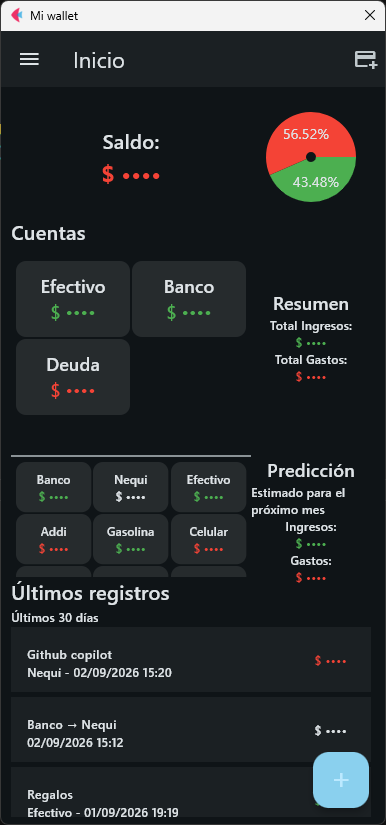
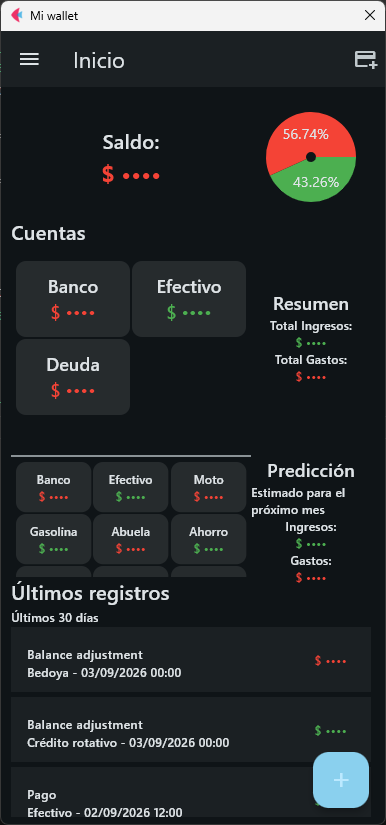
README update

diff --git a/README.md b/README.md
@@ -1,58 +1,98 @@
 # Mi Wallet
 
-Aplicación personal de finanzas hecha con Python y Flet para controlar cuentas, movimientos, transferencias y balances desde una interfaz visual. Funciona con persistencia local, sin depender de un backend externo ni de una base de datos remota.
+Aplicación personal de finanzas desarrollada con **Python y Flet** para gestionar cuentas, movimientos, transferencias y balances desde una interfaz visual.
 
-Su objetivo es concentrar en una sola cartera la información financiera del usuario y ofrecer una consulta rápida del estado actual, el historial y predicciones.
+La aplicación funciona con **persistencia local**, sin depender de un backend externo ni de una base de datos remota.
+
+Su objetivo es concentrar en una sola cartera la información financiera del usuario y ofrecer una consulta rápida del estado actual, el historial y diferentes indicadores para facilitar la gestión cotidiana.
 
 ## Vista previa
 
 Las capturas reales de la aplicación se encuentran en la carpeta [`imagenes/`](imagenes/).
 
-| Inicio | Movimientos | Transferencias |
+| Inicio | Registros | Transferencias |
 | --- | --- | --- |
 | ![Pantalla principal](imagenes/Pantalla%20principal.png) | ![Resumen de movimientos](imagenes/Resumen%20de%20movimientos.png) | ![Transferencias](imagenes/Transferencias.png) |
+
+| Nuevo gasto | Nueva transferencia | Nueva cuenta |
+| --- | --- | --- |
+| ![Nuevo gasto](imagenes/Nuevo%20gasto.png) | ![Nueva transferencia](imagenes/Nueva%20transferencia.png) | ![Nueva cuenta](imagenes/Nueva%20cuenta.png) |
+
+| Configuración |
+| --- |
+| ![Configuración](imagenes/Configuracion.png) |
 
 ## Funcionalidades
 
 ### Cuentas y balance
 
 - Crear, editar y eliminar cuentas.
-- Clasificar cuentas por tipo, como efectivo, banco, deudas, inversiones o ahorros.
+- Clasificar cuentas mediante tipos configurables, como efectivo, banco, deudas, inversiones o ahorros.
 - Crear nuevos tipos de cuenta.
 - Consultar el saldo individual y el balance global de la wallet.
+- Generar automáticamente movimientos de ajuste cuando corresponde.
 
 ### Movimientos
 
-Cada ingreso o gasto incluye cuenta, tipo, categoría, descripción, importe y fecha. Los registros se pueden consultar aplicando filtros por cuenta, tipo, categoría y rango de fechas.
+Cada ingreso o gasto incluye información como cuenta, tipo, categoría, descripción, importe y fecha.
 
-La `Wallet` es la responsable de conservar y coordinar el historial de movimientos; las cuentas ya no almacenan el historial por separado.
+Los registros pueden consultarse mediante filtros por:
+
+- cuenta;
+- tipo;
+- categoría;
+- rango de fechas.
+
+Los movimientos se consultan por periodos para evitar cargar innecesariamente todo el historial al utilizar la aplicación.
+
+La vista de inicio muestra únicamente información reciente, mientras que la sección de registros permite consultar periodos más amplios.
+
+La `Wallet` conserva y coordina el historial general de movimientos, evitando que cada cuenta mantenga una copia independiente de sus registros.
 
 ### Transferencias
 
-Una transferencia relaciona una cuenta de origen con una cuenta de destino y mantiene la trazabilidad mediante un identificador compartido. En la interfaz se muestra como **una sola tarjeta de transferencia**, aunque afecte al saldo de dos cuentas, para evitar presentarla como dos movimientos independientes.
+Una transferencia relaciona una cuenta de origen con una cuenta de destino mediante un identificador compartido.
+
+En la interfaz se presenta como **una única tarjeta de transferencia**, aunque internamente afecte al saldo de dos cuentas.
+
+Las transferencias también pueden consultarse desde la sección de registros mediante sus filtros correspondientes.
+
+### Predicciones y análisis
+
+La aplicación incorpora predicciones basadas en los datos registrados para ofrecer una referencia sobre la evolución financiera esperada.
+
+Actualmente esta parte se encuentra en desarrollo y será ampliada con herramientas de análisis más detalladas.
+
+### Configuración
+
+La aplicación cuenta con una sección de configuración destinada a personalizar distintos aspectos de la wallet y mejorar la experiencia de uso.
+
+Entre las opciones actuales se incluyen configuraciones relacionadas con la privacidad, como la posibilidad de ocultar los saldos, además de preferencias sobre gráficos, categorías y tipos de cuenta.
 
 ### Importación y exportación
 
-La aplicación permite importar y exportar información en CSV. Actualmente, la importación de archivos de Money Manager requiere este formato fijo de columnas, separadas por `;`:
+La aplicación permite importar y exportar información mediante CSV.
+
+Actualmente, la importación de archivos de **Money Manager** requiere este formato fijo de columnas, separadas por `;`:
 
 ```text
 account;category;currency;amount;ref_currency_amount;type;payment_type;payment_type_local;note;date;gps_latitude;gps_longitude;gps_accuracy_in_meters;warranty_in_month;transfer;payee;labels;envelope_id;custom_category
 ```
 
-También permite exportar el estado actual de la wallet para crear copias de respaldo o trabajar con los datos fuera de la aplicación.
+La exportación permite crear copias de respaldo de la información actual o trabajar con los datos fuera de la aplicación.
 
-### Predicciones
-
-La app ofrece una vista previa de predicciones basada en los datos registrados para ayudar a anticipar la evolución financiera.
+La persistencia local permite conservar los datos incluso después de actualizar o reinstalar la aplicación en Android, siempre que el almacenamiento de datos de la aplicación se conserve en el dispositivo.
 
 ## Flujo principal
 
 1. Crear o seleccionar las cuentas financieras.
 2. Registrar ingresos, gastos o transferencias.
-3. Consultar balances, movimientos y filtros.
-4. Revisar las predicciones disponibles.
-5. Guardar los cambios automáticamente en el almacenamiento local.
-6. Importar o exportar datos cuando sea necesario.
+3. Consultar balances y registros mediante filtros.
+4. Revisar la información disponible en el inicio.
+5. Revisar las predicciones disponibles.
+6. Personalizar la aplicación desde Configuración.
+7. Guardar automáticamente los cambios en el almacenamiento local.
+8. Importar o exportar información cuando sea necesario.
 
 ## Arquitectura
 
@@ -76,9 +116,11 @@ project/
 
 - **Modelos:** representan `Account`, `Movement` y `Wallet`.
 - **Servicios:** coordinan cuentas, movimientos, transferencias, balances y predicciones.
-- **Persistencia:** guarda los datos localmente en JSON y gestiona el intercambio mediante CSV.
-- **Interfaz:** Flet organiza la navegación, las ventanas, los formularios y las vistas de consulta.
-- **Pruebas:** cubren el dominio, transferencias, navegación, importación y componentes de la interfaz.
+- **Persistencia:** administra el almacenamiento local y el intercambio de información mediante CSV.
+- **Interfaz:** Flet organiza la navegación, los formularios, los componentes visuales y las vistas de consulta.
+- **Pruebas:** cubren distintas partes del dominio, transferencias, navegación, importación y componentes de la interfaz.
+
+La interfaz actual fue reconstruida para priorizar la experiencia de uso y reducir la dependencia de una visualización permanente del historial de movimientos.
 
 ## Tecnologías
 
@@ -88,12 +130,95 @@ project/
 - CSV para importación y exportación
 - Pytest para pruebas automatizadas
 
-## APK para Android
+## Descargar
 
-En la carpeta download.zip encontraras la APK para descargar directamente en android y utilizar.
+La aplicación puede descargarse desde el archivo [`download.zip`](download.zip), disponible en este mismo repositorio.
 
-La versión de escritorio sigue pendiente de un ajuste visual específico; actualmente la interfaz está orientada principalmente a la experiencia móvil Android.
+El archivo contiene la versión preparada para utilizar la aplicación en **Android**.
+
+Actualmente la versión pública está orientada principalmente a móviles Android. La versión de escritorio todavía requiere algunos ajustes visuales.
+
+## Compatibilidad
+
+La aplicación está diseñada principalmente para **Android**, aunque el proyecto utiliza una base de código multiplataforma mediante Flet.
+
+Durante su desarrollo se realizaron pruebas específicas para resolver diferencias entre escritorio y Android, especialmente en interacción, selección de archivos y persistencia de datos.
 
 ## Estado del proyecto
 
-Mi Wallet ya cuenta con el flujo central de gestión financiera, persistencia local, transferencias, filtros, importación/exportación y pruebas automatizadas. Las siguientes mejoras serán implementar la creación de nuevos tipos de cuenta específicos como deudas o inversiones con cálculos de intereses automáticos y análisis financieros mas detallados.
+Mi Wallet cuenta actualmente con el flujo principal de gestión financiera:
+
+- cuentas;
+- movimientos;
+- transferencias;
+- balances;
+- filtros por periodo;
+- predicciones;
+- configuración;
+- persistencia local;
+- importación y exportación;
+- pruebas automatizadas.
+
+El proyecto continúa evolucionando a partir de pruebas de uso real.
+
+Las siguientes mejoras estarán enfocadas principalmente en ampliar el análisis financiero, incorporar funcionalidades específicas para deudas e inversiones y añadir cálculos automáticos relacionados con intereses y objetivos de ahorro.
+
+## Roadmap
+
+### Fase 1 — Wallet funcional
+
+✅ **Finalizada**
+
+Implementación del flujo principal de cuentas, movimientos, transferencias, balances, persistencia, importación/exportación y pruebas.
+
+### Fase 2 — Adaptación Android y compatibilidad
+
+✅ **Finalizada**
+
+Adaptación de la aplicación para Android y resolución de problemas específicos de plataforma.
+
+### Fase 3 — Pruebas de uso real
+
+✅ **Finalizada**
+
+El uso cotidiano permitió detectar problemas de navegación, rendimiento y comodidad, provocando cambios importantes en el diseño de la aplicación.
+
+### Fase 4 — Reorganización visual, UX y estética
+
+✅ **Finalizada**
+
+Se reconstruyó prácticamente toda la interfaz y el frontend, estableciendo una nueva estructura visual, nuevos formularios, configuración, vistas por periodos y un enfoque centrado en productividad.
+
+### Fase 5 — Estadísticas y predicciones
+
+🟢 **En desarrollo**
+
+Ampliación de los gráficos, estadísticas, análisis y predicciones disponibles para el usuario.
+
+### Fase 6 — Deudas, inversiones y ahorros
+
+⏳ **Pendiente**
+
+Incorporación de sistemas específicos para gestionar deudas, inversiones y objetivos de ahorro, incluyendo cálculos automáticos de intereses.
+
+### Fase 7 — Pulido técnico
+
+⏳ **Pendiente**
+
+No se plantea actualmente una fase de optimización masiva independiente. La arquitectura y la interfaz actual ya han reducido considerablemente los problemas de rendimiento identificados durante las primeras versiones.
+
+Esta fase queda reservada para corregir detalles técnicos, simplificar elementos que lo necesiten y mejorar la estabilidad general.
+
+### Fase 8 — Prueba final
+
+⏳ **Pendiente**
+
+Periodo prolongado de uso para verificar la estabilidad de todas las funcionalidades después de completar las etapas de desarrollo principales.
+
+## Filosofía del proyecto
+
+Mi Wallet se desarrolla de forma incremental y a partir del uso real.
+
+Las decisiones de diseño y arquitectura se revisan cuando la experiencia práctica demuestra que una solución puede mejorarse.
+
+El objetivo no es añadir funcionalidades por cantidad, sino construir una herramienta que resulte **rápida, práctica y agradable de utilizar en el día a día**.
